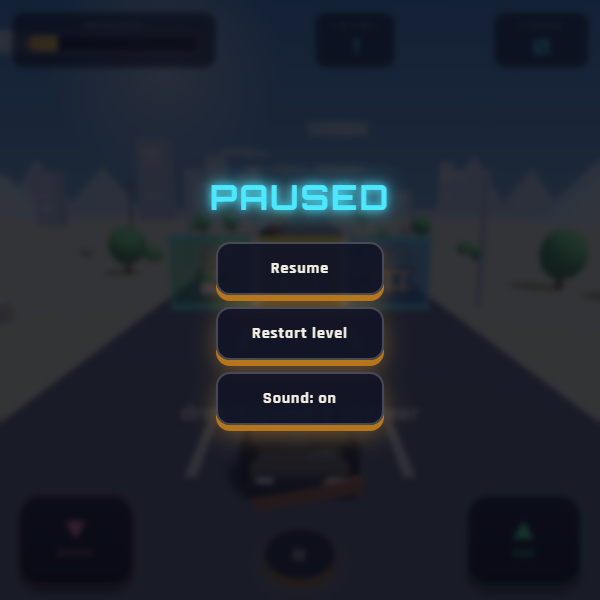
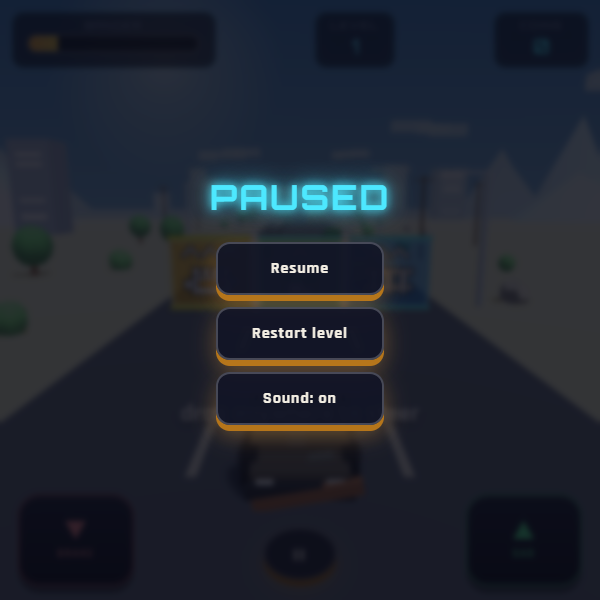
Second chance: rewarded revive once per attempt after a crash in traffic

diff --git a/tools/playtest/cc-revive-proof.js b/tools/playtest/cc-revive-proof.js
@@ -1,0 +1,110 @@
+// Claude Code evidence script (Letter 017 step 5): the second chance (idea A).
+// Bridge's mock mode has no rewarded ads, so this wraps Bridge's `advertisement` getter (a Proxy, as in
+// cc-slow-bridge-proof.js): isRewardedSupported and showRewarded are driven by window.__adMode, and the state events go
+// to the handler the game itself registered. Every outcome is played through the game's own code:
+//   unsupported -> no offer, normal fail screen      rewarded -> drive on, size kept, once per attempt
+//   closed early -> no reward, fail screen           failed   -> no reward, fail screen
+//   silent (no answer) -> fail screen after 8 s      declined -> fail screen
+//   wall loss with ads available -> no offer         revived win -> progression_completed revived true
+// Telemetry: progression_failed is sent once, when the attempt really ends; second_chance records the result.
+// The offer screen is pictured at all 7 frames with an overlap check. A real ad is provable only on Playgama's QA tool.
+// usage: node tools/playtest/cc-revive-proof.js <picture-folder>
+const fs = require('fs'), path = require('path');
+const { launch, phonePage, openReal } = require('./lib');
+const FRAMES = [[390, 844], [844, 390], [320, 568], [820, 1180], [1440, 900], [600, 600], [1920, 600]];
+const EXPOSE = [['  window.GH = { pause: pauseGame,', '  window.__lf = levelFailed; window.__lc = levelClear; window.GH = { pause: pauseGame,']];
+const out = process.argv[2] || 'revive-proof'; fs.mkdirSync(out, { recursive: true });
+const fails = []; const check = (ok, msg) => { console.log((ok ? 'PASS ' : 'FAIL ') + msg); if (!ok) fails.push(msg); };
+const sleep = ms => new Promise(r => setTimeout(r, ms));
+
+const INIT = () => {
+  window.__ev = []; window.__adMode = 'unsupported'; window.__adCalls = 0; let real, rwHandler = null;
+  Object.defineProperty(window, 'bridge', { configurable: true, get() { return real; }, set(v) {
+    real = v;
+    const wrap = (name, make) => {
+      const desc = Object.getOwnPropertyDescriptor(v, name) || Object.getOwnPropertyDescriptor(Object.getPrototypeOf(v), name);
+      Object.defineProperty(v, name, { configurable: true, get() { return make(desc.get ? desc.get.call(v) : desc.value); } });
+    };
+    wrap('analytics', orig => new Proxy(orig, { get(t, k) { const val = Reflect.get(t, k);
+      if (k === 'send') return (n, d) => { window.__ev.push({ name: n, data: JSON.parse(JSON.stringify(d || {})) }); return val.call(t, n, d); };
+      return typeof val === 'function' ? val.bind(t) : val; } }));
+    wrap('advertisement', orig => new Proxy(orig, { get(t, k) {
+      if (k === 'isRewardedSupported') return window.__adMode !== 'unsupported';
+      if (k === 'isInterstitialSupported') return false;
+      if (k === 'on') return (ev, h) => { if (ev === v.EVENT_NAME.REWARDED_STATE_CHANGED) rwHandler = h; return orig.on(ev, h); };
+      if (k === 'showRewarded') return () => { window.__adCalls++;
+        const seq = { rewarded: ['loading', 'opened', 'rewarded', 'closed'], closed: ['loading', 'opened', 'closed'], failed: ['loading', 'failed'], silent: [] }[window.__adMode] || [];
+        seq.forEach((st, i) => setTimeout(() => rwHandler && rwHandler(st), 300 + i * 300)); };
+      const val = Reflect.get(t, k); return typeof val === 'function' ? val.bind(t) : val; } }));
+  } });
+};
+
+(async () => {
+  const b = await launch({ headless: true });
+  const p = await phonePage(b, 390, 844, 1); await p.addInitScript(INIT); await openReal(p, '', EXPOSE);
+  const screen = () => p.evaluate(() => ({ offer: !!document.getElementById('reviveBtn'), fail: !!document.getElementById('retryBtn'),
+    shown: document.getElementById('overlay').style.display === 'flex', state: window.__gh.state, mass: window.__gh.mass }));
+  const ev = () => p.evaluate(() => window.__ev.filter(e => e.name !== 'performance_sample').map(e => e.name + (e.data.result ? ':' + e.data.result : '') + (e.data.revived ? ':revived' : '')));
+  const start = async (lv, mode) => { await p.evaluate(m => { window.__adMode = m; document.getElementById('overlay').innerHTML = ''; }, mode);
+    await p.evaluate(n => window.__gh.setLevel(n), lv); await sleep(1200); await p.evaluate(() => { window.__ev.length = 0; }); };
+  const crash = async () => { await p.evaluate(() => window.__lf('crash')); await sleep(700); };
+
+  // unsupported
+  await start(7, 'unsupported'); await crash(); let s = await screen(), e = await ev();
+  check(!s.offer && s.fail, `no rewarded ads: no offer, normal fail screen (${JSON.stringify(s)})`);
+  check(JSON.stringify(e) === '["progression_failed"]', `  events: ${e.join(', ')}`);
+
+  // rewarded, then once per attempt
+  await start(7, 'rewarded'); const m0 = await p.evaluate(() => window.__gh.mass); await crash(); s = await screen();
+  check(s.offer && !s.fail && s.state === 'over', 'ads available, crash in traffic: the offer appears, the attempt is not ended yet');
+  check(JSON.stringify(await ev()) === '[]', '  no progression_failed while the offer is up');
+  await p.click('#reviveBtn'); await sleep(2000); s = await screen();
+  check(s.state === 'playing' && !s.shown && s.mass === m0, `ad watched to the end: driving again, overlay gone, size kept (${m0} -> ${s.mass})`);
+  await crash(); s = await screen(); e = await ev();
+  check(!s.offer && s.fail, 'second crash in the same attempt: no second offer, fail screen');
+  check(JSON.stringify(e) === '["second_chance:rewarded","progression_failed:revived"]', `  events: ${e.join(', ')}`);
+  check((await p.evaluate(() => window.__adCalls)) === 1, 'one rewarded ad requested in the attempt');
+
+  // a new attempt offers again
+  await start(7, 'rewarded'); await crash(); s = await screen();
+  check(s.offer, 'a new attempt (Try again / next level) can offer again');
+  await p.click('#reviveBtn'); await sleep(2000);
+  await p.evaluate(() => { document.getElementById('overlay').innerHTML = ''; window.__lc(); });
+  await p.waitForFunction(() => !!document.getElementById('nextBtn'), null, { timeout: 20000 }); e = await ev();
+  check(e.includes('progression_completed:revived'), `revived win is marked revived: ${e.join(', ')}`);
+
+  // closed early, failed, silent, declined
+  for (const [mode, wait, label] of [['closed', 2000, 'ad closed before the end'], ['failed', 1500, 'ad failed to load'], ['silent', 9500, 'no answer from the ad']]) {
+    await start(7, mode); await crash(); await p.click('#reviveBtn'); await sleep(wait); s = await screen(); e = await ev();
+    check(!s.offer && s.fail && s.state === 'over', `${label}: no reward, normal fail screen`);
+    check(JSON.stringify(e) === '["second_chance:not_rewarded","progression_failed"]', `  events: ${e.join(', ')}`);
+  }
+  await start(7, 'rewarded'); await crash(); await p.click('#declineBtn'); await sleep(500); s = await screen(); e = await ev();
+  check(s.fail && s.state === 'over', 'No thanks: normal fail screen');
+  check(JSON.stringify(e) === '["second_chance:declined","progression_failed"]', `  events: ${e.join(', ')}`);
+
+  // wall loss
+  await start(14, 'rewarded'); await p.evaluate(() => window.__lf('barricade')); await sleep(700); s = await screen();
+  check(!s.offer && s.fail, 'lost at the wall with ads available: no offer (a revive cannot add size)');
+  check(p.errors.length === 0, 'no page errors' + (p.errors.length ? ': ' + p.errors.join(' | ') : ''));
+  await p.close();
+
+  // the offer screen at every frame
+  for (const [w, h] of FRAMES) {
+    const q = await phonePage(b, w, h, 1); await q.addInitScript(INIT); await openReal(q, '', EXPOSE);
+    await q.evaluate(() => { window.__adMode = 'rewarded'; window.__gh.setLevel(7); }); await sleep(1000);
+    await q.evaluate(() => window.__lf('crash')); await sleep(700);
+    const r = await q.evaluate(() => {
+      const els = ['#overlay h1', '#overlay .sub', '#reviveBtn', '#declineBtn'].map(sel => document.querySelector(sel).getBoundingClientRect());
+      const onScreen = els.every(q => q.width > 0 && q.left >= 0 && q.top >= 0 && q.right <= innerWidth && q.bottom <= innerHeight);
+      let overlap = false; for (let i = 0; i < els.length; i++) for (let j = i + 1; j < els.length; j++) { const a = els[i], c = els[j]; if (Math.min(a.right, c.right) > Math.max(a.left, c.left) && Math.min(a.bottom, c.bottom) > Math.max(a.top, c.top)) overlap = true; }
+      return { onScreen, overlap, title: !!document.getElementById('titleSplash') };
+    });
+    await q.screenshot({ path: path.join(out, `offer-${w}x${h}.png`) });
+    check(r.onScreen && !r.overlap && !r.title && q.errors.length === 0, `${w}x${h}: offer title, text and both buttons on screen, not overlapping, boot title gone, no errors`);
+    await q.close();
+  }
+  await b.close();
+  console.log(fails.length ? `${fails.length} FAILED` : 'all passed');
+  process.exit(fails.length ? 1 : 0);
+})().catch(e => { console.error(e); process.exit(1); });

diff --git a/gate-highway-prototype.html b/gate-highway-prototype.html
@@ -180,7 +180,7 @@
   #resultRow{
     display:flex; gap:10px; margin-bottom:22px; flex-wrap:wrap; justify-content:center;
   }
-  #resultRow .board{ background:rgba(244,239,228,0.05); } #teaser{ font-family:'Orbitron',sans-serif; font-weight:700; color:var(--amber); font-size:calc(13px * var(--ui-scale)); letter-spacing:1px; margin:-8px 0 18px; text-shadow:0 0 10px rgba(255,179,71,.45); }
+  #resultRow .board{ background:rgba(244,239,228,0.05); } #declineBtn{ margin-top:14px; background:none; color:var(--dim); box-shadow:none; border:1px solid rgba(244,239,228,.25); font-size:calc(12px * var(--ui-scale)); } #reviveBtn:disabled,#declineBtn:disabled{ opacity:.6; } #teaser{ font-family:'Orbitron',sans-serif; font-weight:700; color:var(--amber); font-size:calc(13px * var(--ui-scale)); letter-spacing:1px; margin:-8px 0 18px; text-shadow:0 0 10px rgba(255,179,71,.45); }
   button{
     font-family:'Orbitron',sans-serif;
     font-size:calc(14px * var(--ui-scale));
@@ -454,6 +454,22 @@
     // Interstitial at a natural pause (rules 2.1.2, 2.1.3). Bridge decides whether one shows and how
     // often; the game adds no timer. Sound and pause during the ad come from the handlers in load().
     ad: function(){ try { const b = this.bridge; if (b && b.advertisement.isInterstitialSupported) b.advertisement.showInterstitial(); } catch(e){} },
+    // Rewarded ad (rules 2.2.1-2.2.5): offered only when the platform supports it; the reward is granted only in the
+    // `rewarded` state; `closed` or `failed` without it, an error, or no answer at all within 8 s ends with done(false),
+    // so the game always goes on (rules 1.7.2, 2.1.7). Pause and sound during the ad come from the handlers in load().
+    canRewarded: function(){ try { const b = this.bridge; return !!(b && b.advertisement.isRewardedSupported); } catch(e){ return false; } },
+    rewarded: function(done){
+      const self = this, job = { granted:false, done:done, quiet:null };
+      const finish = function(){ if (self.pending !== job) return; self.pending = null; clearTimeout(job.quiet); job.done(job.granted); };
+      job.finish = finish; job.quiet = setTimeout(finish, 8000); this.pending = job;
+      try { this.bridge.advertisement.showRewarded(); } catch(e){ finish(); }
+    },
+    onRewarded: function(st){
+      const job = this.pending; if (!job) return;
+      clearTimeout(job.quiet);                       // the ad answered: no more 8 s limit while it plays
+      if (st === 'rewarded') job.granted = true;
+      if (st === 'closed' || st === 'failed') job.finish();
+    },
     save: function(lv, c, q){
       try {
         // lateLoad: Bridge answered after the wait, so the game started without the saved progress; saving now
@@ -476,6 +492,7 @@
         if (!b.platform.isAudioEnabled) Snd.mute(true);
         b.platform.on(b.EVENT_NAME.AUDIO_STATE_CHANGED, function(on){ Snd.mute(!on); });
         b.platform.on(b.EVENT_NAME.PAUSE_STATE_CHANGED, function(p){ Snd.hold(p); if (p) window.GH.pause(); else window.GH.resume(); });
+        try { b.advertisement.on(b.EVENT_NAME.REWARDED_STATE_CHANGED, function(st){ self.onRewarded(st); }); } catch(e){}
         return b.storage.get(['gh_level','gh_coins','gh_quality']);
       });
       return Promise.race([work, timeout]).then(function(d){ if (d === 'late'){ self.lateLoad = true; return fromLocal(); } return d; }).catch(fromLocal);
@@ -1946,14 +1963,16 @@
   const pauseScreen = document.getElementById('pauseScreen');
   let paused = false;
 
+  // The boot title fades for about 3 s. Any screen that opens on top of the game ends it at once, so the title
+  // never sits under PAUSED, WRECKED or the second-chance offer (rule 1.6.4).
+  function dropSplashNow(){ const ts = document.getElementById('titleSplash'); if (ts) ts.remove(); }
   function pauseGame(){
     if(paused || state !== 'playing') return;
     paused = true;
     gasHeld = false; brakeHeld = false; dragging = false;
     btnGas.classList.remove('held'); btnBrake.classList.remove('held');
     pauseScreen.classList.add('show');
-    // the fading GATE HIGHWAY title sat under PAUSED on wide screens: a pause ends it at once
-    const ts = document.getElementById('titleSplash'); if (ts) ts.remove();
+    dropSplashNow();   // the fading GATE HIGHWAY title sat under PAUSED on wide screens
     Snd.hold(true); Platform.msg('level_paused');
   }
   function resumeGame(){
@@ -2631,15 +2650,51 @@
     smash.earned = earned;
   }
 
+  // Second chance (idea A, Letters 016-017): after a crash in traffic, once per attempt, a rewarded ad lets the player
+  // drive on from where they crashed with their size kept. Never at the wall: a revive there cannot add the missing size.
   function levelFailed(reason){
     if(state !== 'playing') return;
     state = 'over';
-    const cfg = levelCfg(level);
     Snd.play('crash');
-    Platform.msg('level_failed'); Platform.track('progression_failed', progressData({ reason: reason === 'barricade' ? 'barricade' : 'crash' }));
-    Platform.save(level, coins, Quality.level);
     shakeTime = 0.45;
     flashColor(false);
+    dropSplashNow();
+    if (reason !== 'barricade' && !attemptRevived && Platform.canRewarded()){ setTimeout(offerSecondChance, 320); return; }
+    endAttempt(reason, 320);
+  }
+  function offerSecondChance(){
+    const cfg = levelCfg(level);
+    overlay.innerHTML =
+      '<h1 class="glow-text" style="color:var(--red);">WRECKED</h1>' +
+      '<div class="sub">Bar filled ' + Math.min(99, Math.floor(mass / cfg.need * 100)) + '%. Watch an ad to keep driving from here, at the same size.</div>' +
+      '<button id="reviveBtn">&#9654; Watch ad: keep driving</button>' +
+      '<button id="declineBtn">No thanks</button>';
+    overlay.style.display = 'flex';
+    const yes = document.getElementById('reviveBtn'), no = document.getElementById('declineBtn');
+    no.addEventListener('click', function(){ Snd.play('click'); Platform.track('second_chance', progressData({ result:'declined' })); endAttempt('crash', 0); });
+    yes.addEventListener('click', function(){
+      Snd.play('click'); yes.disabled = true; no.disabled = true; yes.textContent = 'Loading ad...';
+      Platform.rewarded(function(granted){
+        if (granted){ Platform.track('second_chance', progressData({ result:'rewarded' })); attemptRevived = true; revive(); }
+        else { Platform.track('second_chance', progressData({ result:'not_rewarded' })); endAttempt('crash', 0); }
+      });
+    });
+  }
+  function revive(){
+    // clear the road around the car so the run does not end again on the same traffic; size and progress are kept
+    for (let i = obstacles.length - 1; i >= 0; i--){
+      const o = obstacles[i];
+      if (o.z < player.z + 12 && o.z > player.z - 40){ releaseVehicle(o.kindDef, o.group); obstacles.splice(i, 1); }
+    }
+    overlay.style.display = 'none';
+    lastTime = performance.now();
+    state = 'playing';
+    showToast('KEEP DRIVING!');
+  }
+  function endAttempt(reason, delay){
+    const cfg = levelCfg(level);
+    Platform.msg('level_failed'); Platform.track('progression_failed', progressData({ reason: reason === 'barricade' ? 'barricade' : 'crash' }));
+    Platform.save(level, coins, Quality.level);
     setTimeout(function(){
       const head = reason === 'barricade' ? 'NOT BIG ENOUGH' : 'WRECKED';
       const line = reason === 'barricade'
@@ -2659,7 +2714,7 @@
         startLevel();
         overlay.style.display = 'none';
       });
-    }, 320);
+    }, delay);
   }
 
   // ============================================================

diff --git a/PROGRESS.md b/PROGRESS.md
@@ -756,3 +756,50 @@ Contrast is WCAG's formula against the pause screen's backdrop over pure black a
 `checks.js` (`sim/results/cc-checks-paused.log`): **39 PASS, 1 FAILED, exit 1.** This line first said "all passed": my command committed S4 (`dc10b95`) without stopping on the failure, and wrote the wrong result here. Corrected below; the S4 commit was made before its checks passed, which breaks Tony's rule, and is recorded as such.
 
 The failure: `endless: level 21 starts and runs ... {"state":"over"}`: my S2 check had no guard, and the unsteered test car crashed in the first 3 s. Tested before blaming the test: 20 starts each, crash within 3 s at level 11: 0 of 20, at level 21: 1 of 20 (`sim/results/cc-crash3s-11-vs-21.log`), a rare crash at the same rate, configs proven equal in S2. Fix: the same guard Letter 011 gave the level-20 check (mass at twice the need). Rerun (`sim/results/cc-checks-paused-rerun.log`): 40 PASS, `all passed`, exit 0.
+
+## S5 Second chance (idea A, Claude's conditions a-d): done, except the real ad
+
+Change:
+- After a crash in traffic, if `isRewardedSupported`, a WRECKED screen offers "Watch ad: keep driving" and "No thanks" (rule 2.2.1: the button says it is an ad and what it gives; 2.2.2: always declinable).
+- Once per attempt (2.2.4). Never at the wall (condition a: a revive there cannot add size).
+- Reward only in the `rewarded` state (2.2.5). `closed` or `failed` without it, or no answer within 8 s, goes to the normal fail screen, so nothing can get stuck (1.7.2, 2.1.7).
+- On a revive: the road from 12 units behind to 40 ahead is cleared, and size and progress are kept.
+- Telemetry (condition d): `progression_failed` is sent once, when the attempt really ends (not at the crash that led to the offer); a revived attempt's result carries `revived: true`; `second_chance` records `rewarded`, `not_rewarded` or `declined` (bounded; answers "do players take it?").
+- Also: any crash now clears the fading boot title at once. The pictures showed GATE HIGHWAY under WRECKED at 844x390 (rule 1.6.4), as it was under PAUSED; this was true of the old fail screen too.
+
+My mistakes on the way: the first proof run caught `second_chance: rewarded` sent with `revived: true` (the game set the flag before sending; the offer is always on an attempt not yet revived, so it now sends first). The boot-title overlap was found in the pictures after all checks had passed.
+
+`node tools/playtest/cc-revive-proof.js sim/results/revive` (`sim/results/cc-revive-proof.log`; offer pictures at all 7 frames in `sim/results/revive/`). Bridge's mock has no rewarded ads, so the proof wraps Bridge's `advertisement` getter and plays each ad outcome into the handler the game registered:
+```
+PASS no rewarded ads: no offer, normal fail screen ({"offer":false,"fail":true,"shown":true,"state":"over","mass":385})
+PASS   events: progression_failed
+PASS ads available, crash in traffic: the offer appears, the attempt is not ended yet
+PASS   no progression_failed while the offer is up
+PASS ad watched to the end: driving again, overlay gone, size kept (385 -> 385)
+PASS second crash in the same attempt: no second offer, fail screen
+PASS   events: second_chance:rewarded, progression_failed:revived
+PASS one rewarded ad requested in the attempt
+PASS a new attempt (Try again / next level) can offer again
+PASS revived win is marked revived: second_chance:rewarded, progression_completed:revived
+PASS ad closed before the end: no reward, normal fail screen
+PASS   events: second_chance:not_rewarded, progression_failed
+PASS ad failed to load: no reward, normal fail screen
+PASS   events: second_chance:not_rewarded, progression_failed
+PASS no answer from the ad: no reward, normal fail screen
+PASS   events: second_chance:not_rewarded, progression_failed
+PASS No thanks: normal fail screen
+PASS   events: second_chance:declined, progression_failed
+PASS lost at the wall with ads available: no offer (a revive cannot add size)
+PASS no page errors
+PASS 390x844: offer title, text and both buttons on screen, not overlapping, boot title gone, no errors
+PASS 844x390: offer title, text and both buttons on screen, not overlapping, boot title gone, no errors
+PASS 320x568: offer title, text and both buttons on screen, not overlapping, boot title gone, no errors
+PASS 820x1180: offer title, text and both buttons on screen, not overlapping, boot title gone, no errors
+PASS 1440x900: offer title, text and both buttons on screen, not overlapping, boot title gone, no errors
+PASS 600x600: offer title, text and both buttons on screen, not overlapping, boot title gone, no errors
+PASS 1920x600: offer title, text and both buttons on screen, not overlapping, boot title gone, no errors
+all passed
+```
+`cc-paused-proof.js` rerun after the shared title change (`sim/results/cc-paused-proof-2.log`): all passed. `cc-telemetry-proof.js` rerun after the `levelFailed` change (`sim/results/cc-telemetry-proof-s5.log`): all passed. `checks.js` (`sim/results/cc-checks-revive.log`): 40 PASS, `all passed`, exit 0. Ship build 1.1.0 (`sim/results/cc-build-s5.log`): exit 0, scans pass.
+
+**Not proven:** a real rewarded ad. Only Playgama's QA tool or the live platform can show one; the proof covers every state sequence the Bridge docs list (`loading`, `opened`, `closed`, `rewarded`, `failed`) plus silence. Bro You're Cooked logged 179 failed against 51 opened interstitials, so the not-rewarded path will be common on the real platform; it is tested.
